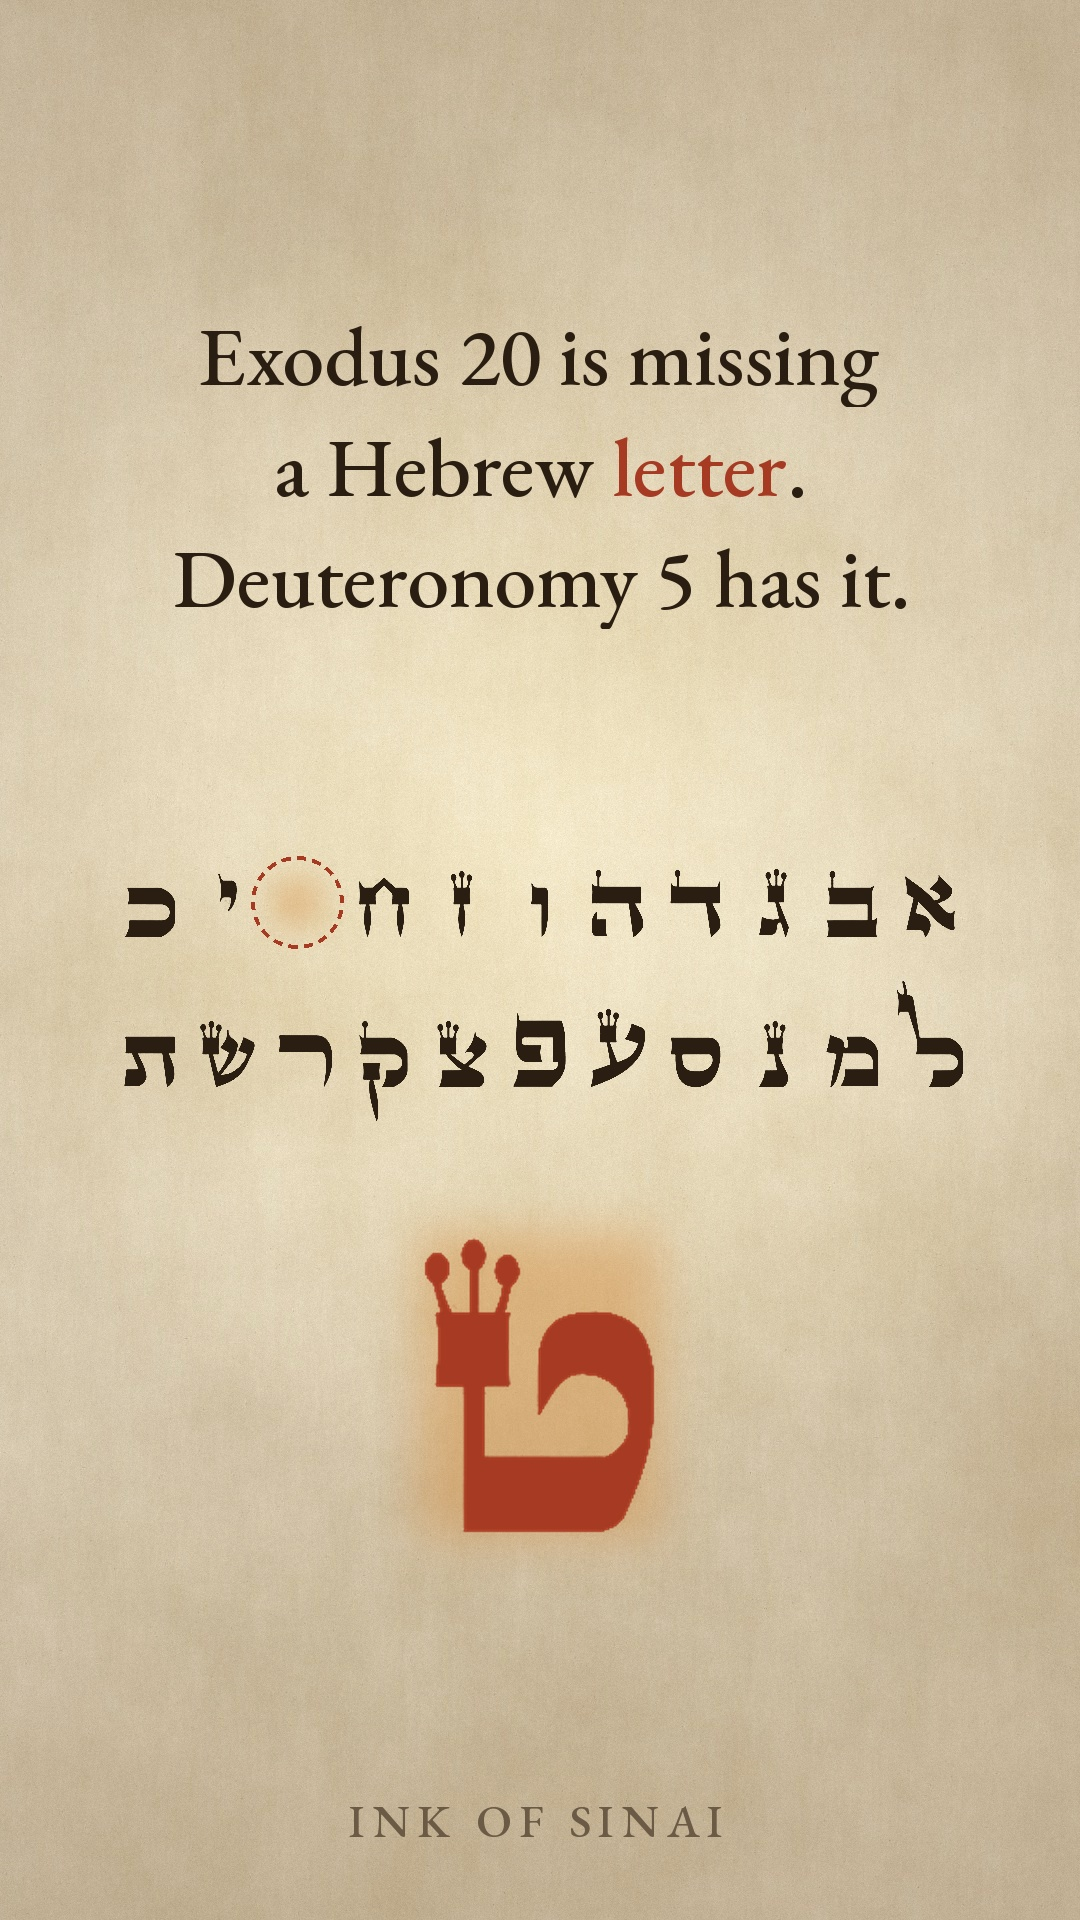
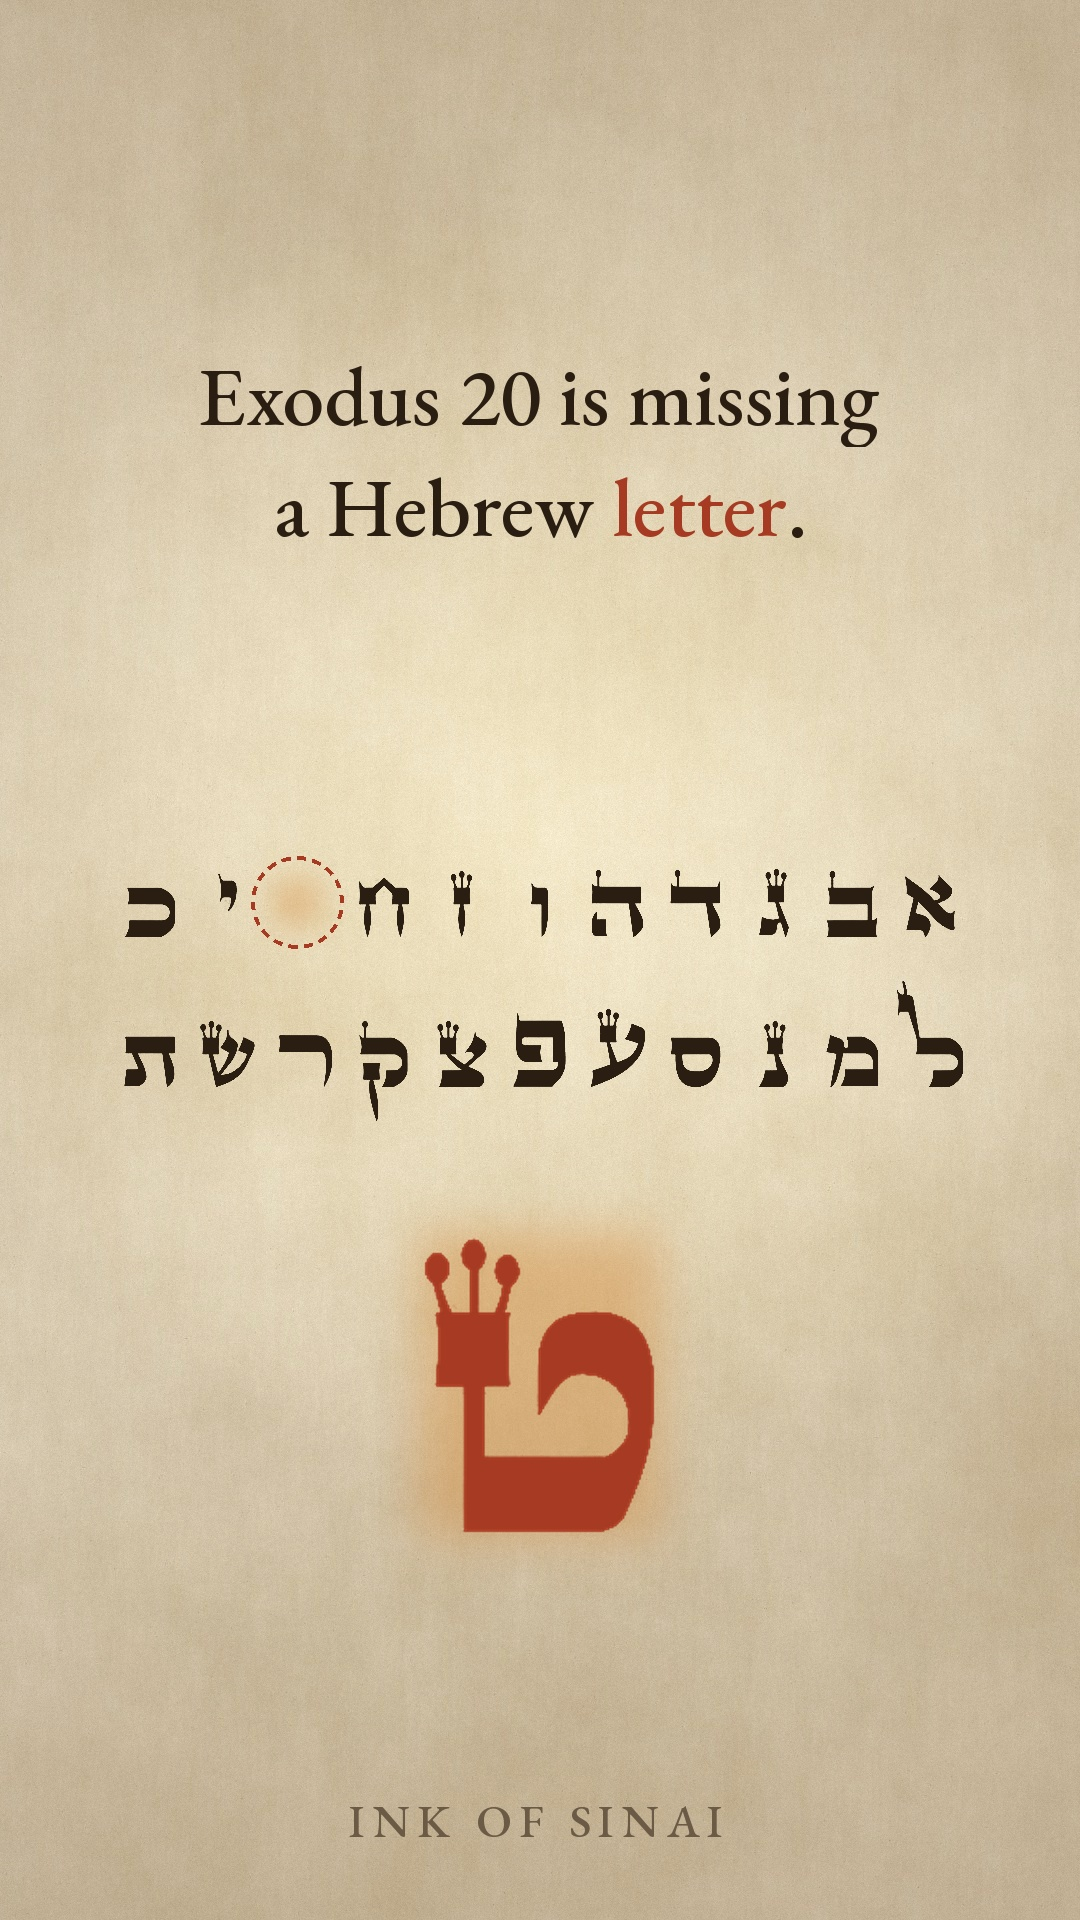
s19 cover: headline is one sentence

Changed region(s): [[0.1528, 0.1562, 0.825, 0.3438]]

diff --git a/_research/sfx_engine/cover19.py b/_research/sfx_engine/cover19.py
@@ -6,10 +6,9 @@ from build_v26 import *
 c = PLATE.copy()
 def put(it, y, t=99.0):
     ink = ink_dx(it); it.draw(c, (W - it.w) // 2 + ink, y, t); return y + it.h
-y = 300
+y = 340
 y = put(Line('Exodus 20 is missing', 84, 0), y)
 y = put(Line([('a Hebrew ', INK), ('letter', RED), ('.', INK)], 84, 0), y + 4)
-y = put(Line('Deuteronomy 5 has it.', 84, 0), y + 4)
 al = Alphabet(0, 'hole', k=1.0); al.tc = -10     # circle fully drawn
 al.draw(c, (W - al.w) // 2, 830, 99.0)
 tp = Pop(big_teth, 0); put(tp, 1160)

diff --git a/_research/shorts/s19_packaging.md b/_research/shorts/s19_packaging.md
@@ -21,4 +21,4 @@ Send this to someone who knows the Ten Commandments by heart.
 #tencommandments #hebrewbible #torah #bible #biblestudy
 
 COVER
-s19_cover.jpg (1080x1920). Text: "Exodus 20 is missing / a Hebrew letter. / Deuteronomy 5 has it." ("letter" in red) over the alphabet with the empty teth slot circled and a red teth under it.
+s19_cover.jpg (1080x1920). Text: "Exodus 20 is missing / a Hebrew letter." ("letter" in red) over the alphabet with the empty teth slot circled and a red teth under it.
